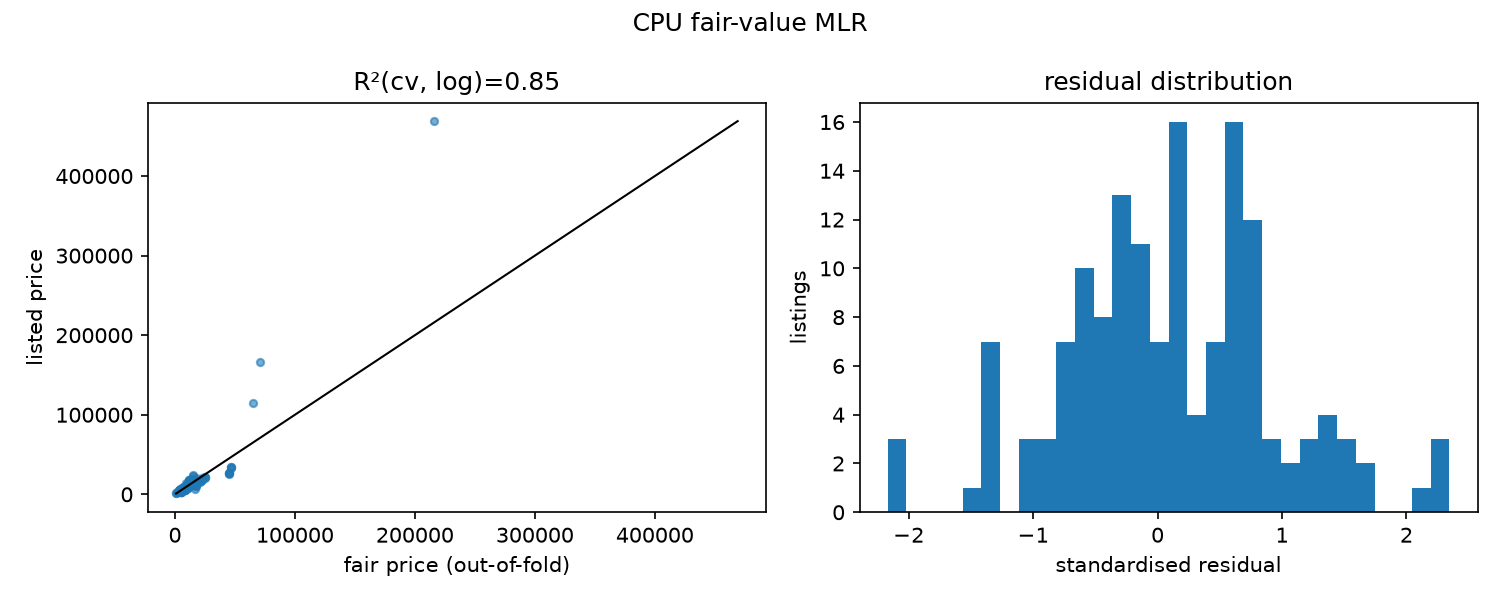
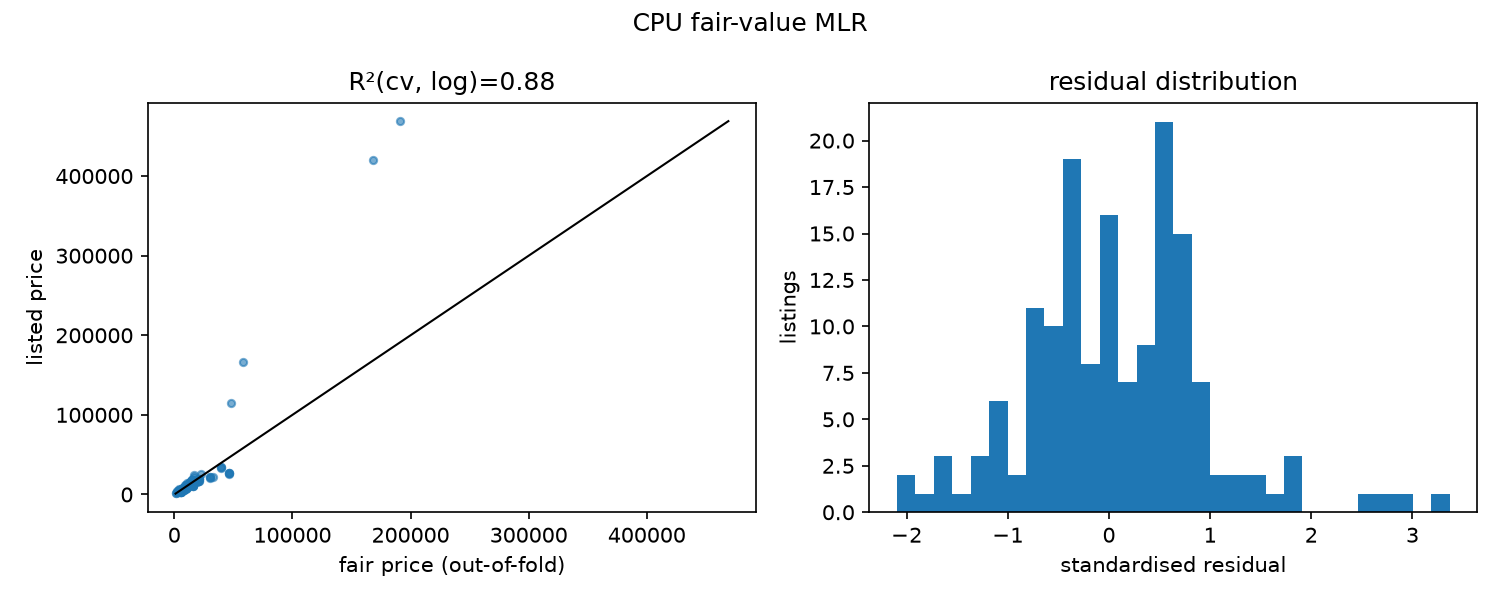
Regenerate figures from the 2026.11-v18 run and queue round 21

diff --git a/loop/BACKLOG.md b/loop/BACKLOG.md
@@ -15,8 +15,15 @@
   2. /insights siblingSentence: "…เกิน 5% 3 คู่" puts two numbers side by side, write "…เกิน 5% รวม 3 คู่"; "ไม่ดีกว่า…เลยสักด้าน" reads as a double negative, use the /ml wording "ด้อยกว่าหรือเท่ากับอีกรุ่นทุกด้าน" on both pages.
   3. `fitExample` falls back to all points (possibly flagged) when none are trusted, contradicting the "never a flagged listing" comment; return null (hide the example) instead, or fix the comment.
   4. FitScatter tooltip does not say a point is "ประเมินไม่แน่นอน".
-- [ ] **Round 20 (user decision 2026-11-13): fix the CPU MLR root cause of sibling inversions** (M). On v16 data 19 CPU pairs are inverted, e.g. i9-14900F ฿22,821 > 14900K ฿17,438, i7-14700F > 14700K, 7700X3D > 7800X3D, Ryzen 5 5500 > 5600, 9600 > 9600X. Suspects: no `has_igpu` / F-model feature in the CPU MLR; demand features (`sales_rank_pct`, `log_views`) push popular models up.
-  - เกณฑ์ผ่าน: 1) CPU inversion pairs and flagged % drop clearly (target ≤ 15% of Deal-Scored CPU listings) 2) CPU R²(cv) and MAPE(cv) do not get worse (v16: .85 / .227) 3) reported per feature change, chosen by GroupKFold CV, not by inversion count alone.
+- [ ] **Round 21: CPU fair prices too high for high-thread Ryzen → fake top CPU deals** (M, user-tester round 20). Live v18: the top CPU deals are Ryzen 9 9900X3D ฿22,090 vs fair ฿32,517 (DEAL 86), Ryzen 7 8700F ฿6,690 vs ฿9,836 (85), Ryzen 9 9950X ฿20,990 vs ฿30,463 (84); 9950X3D fair ฿46,185 vs market ฿25–27k (unscored). Suspect `log2_threads` β +0.597 dominating once unlocked/demand were dropped. Also 8500G fair > 7600 (cross-generation, not a sibling).
+  - เกณฑ์ผ่าน: 1) these listings get believable fair prices or are flagged 2) CPU R²(cv)/MAPE(cv) not worse than v18 (.883 / .224) 3) inversions not worse than v18 (6) 4) GroupKFold + random-split evidence as in round 20.
+- [ ] **Round 20 follow-ups** (S)
+  1. Parser reads "9950X3D2" as unlocked=False, so the sibling check treats 9950X3D as the better part (v18 fair: X3D2 ฿39,684 < X3D ฿46,185). Treat X3D2 as X (and ≥ X3D).
+  2. Explain on /ml and the product page that the CPU fair price ignores the K/X unlock premium and that the CPU MLR has no demand features (the MLR copy on /ml says views/sales rank are used, which is false for CPU since v18).
+  3. /ml CPU tree node "ระดับรุ่น (Ryzen / Core) ≤ 6 (เช่น R6, i6)?" names tiers that do not exist; describe the threshold between real tiers (e.g. "Ryzen 5 / Core i5 หรือต่ำกว่า").
+  4. 8500G product page shows "Deal 85" together with "ราคาเหมาะสม" and "สรุปไม่ได้ว่าถูกกว่าตลาดจริง" — reads as contradictory.
+  5. `unlocked` regex misses "XE" (i9-7980XE → False); only affects sibling dominance now.
+  6. scrape.yml runs train with `!cancelled()` even when link fails, so a link failure trains on stale specs.
 - [ ] **Round 18 follow-ups (live, model 2026.11-v16)**
   1. Hydration error #418 on production list pages (5 in ~110 loads on v15). Server HTML is correct; mismatch at `div.flex` around `AutoSubmitSelect` under `<section products-title>`. Do NOT wrap page content in Suspense. Start from the header Suspense (HeaderSearch / SiteNav with useSearchParams).
   2. The demand payload cache (15 minutes) mixes new numbers with old wording after a train. Revalidate on train or deploy.
@@ -86,5 +93,6 @@
 
 ## Done
 (บรรทัดเดียวต่องาน)
+- รอบ 20 (2026-11-14, 15f8f12, model v18): CPU MLR + has_igpu, ตัด base clock / unlocked / demand (สัมประสิทธิ์ติดลบ); parser: Threadripper/Core X ไม่มี iGPU; CPU R²cv .851→.883, คู่กลับด้าน 19→6; ผู้ใช้เลือกคง has_igpu
 - รอบ 19 (2026-11-13, fa93d09, model v17): รุ่นสเปกด้อยที่ราคายุติธรรมสูงกว่ารุ่นพี่น้องเกิน 5% ติด "ประเมินไม่แน่นอน" พร้อมเหตุผลอ้างรุ่นคู่ (ผู้ใช้เลือกติดฝั่งเดียว) GPU 3 / CPU 19 / RAM 1 / SSD 1 คู่; deal of the week เลิกเป็น RTX 3050 6GB
 - รอบ 18 (2026-11-13, 5f279a1, model v16): /ml พร้อมนำเสนอ (centroid, Decision Tree, legend, ใช่ซ้าย, dendrogram, สูตรครบ, ปุ่มเลื่อนต้นไม้), กลุ่มที่เหลือชื่อ "ยอดขายไม่เด่น" ติดป้ายเมื่อขายดีกว่า < 50%, ชิปกลุ่มว่าง, จำนวนรุ่นตรงกันทุกหน้า, /insights ใช้มัธยฐาน; ปิด Vercel git auto-deploy (1ac51e0)
